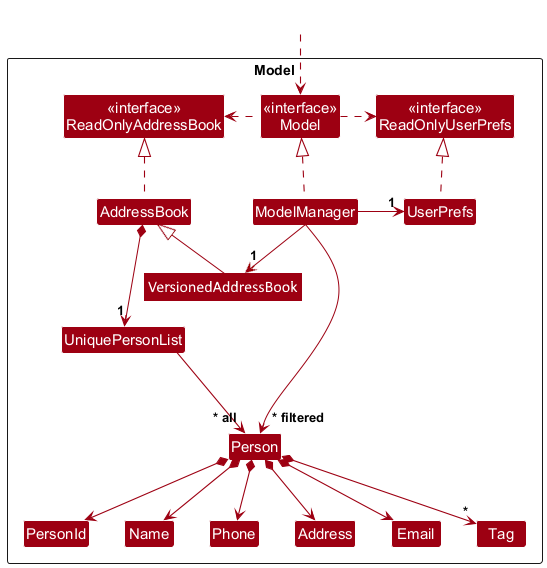
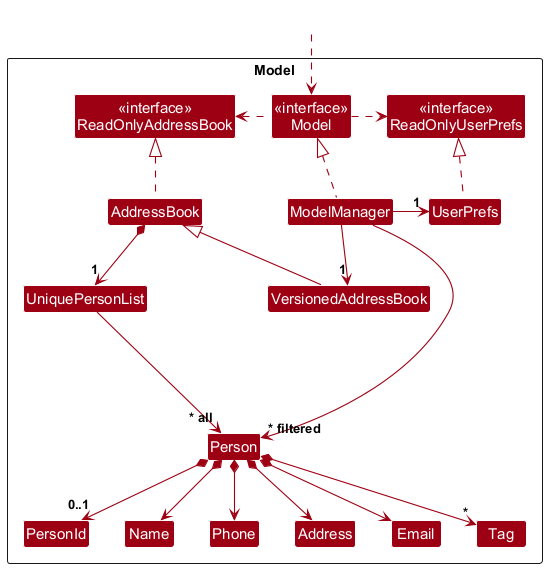
Docs: Update the DG diagrams to match the code

diff --git a/docs/DeveloperGuide.md b/docs/DeveloperGuide.md
@@ -81,7 +81,7 @@ The **API** of this component is specified in [`Ui.java`](https://github.com/AY2
 
 ![Structure of the UI Component](images/UiClassDiagram.png)
 
-The UI consists of a `MainWindow` and its parts, such as `CommandBox`, `ResultDisplay`, `PersonListPanel`, and `StatusBarFooter`. All of these, including `MainWindow`, inherit from the abstract `UiPart` class, which captures common behavior among classes that represent visible GUI parts.
+The UI consists of a `MainWindow` and its parts, such as `CommandBox`, `ResultDisplay`, `PersonListPanel`, and `StatusBarFooter`. All of these, including `MainWindow`, inherit from the abstract `UiPart` class, which captures common behavior among classes that represent visible GUI parts. `MainWindow` also holds the contact details panel and the Command Guide panel, both defined in `MainWindow.fxml`.
 
 The `UI` component uses the JavaFX UI framework. The layouts of these UI parts are defined in matching `.fxml` files in `src/main/resources/view`. For example, [`MainWindow.fxml`](https://github.com/AY2627S1-CS2103-F13-1/tp/tree/master/src/main/resources/view/MainWindow.fxml) specifies the layout of [`MainWindow`](https://github.com/AY2627S1-CS2103-F13-1/tp/tree/master/src/main/java/seedu/address/ui/MainWindow.java).
 
@@ -132,7 +132,7 @@ How the parsing works:
 
 The `Model` component,
 
-* stores the address book data i.e., all `Person` objects (which are contained in a `UniquePersonList` object).
+* stores the address book data i.e., all `Person` objects (which are contained in a `UniquePersonList` object), in a `VersionedAddressBook`: an `AddressBook` that also keeps the undo/redo history (see [Undo/redo feature](#undoredo-feature)).
 * considers two `Person` objects duplicates when they have the same phone number and their names match after letter
   case is ignored and each run of spaces is treated as one space. The name is otherwise stored exactly as entered.
 * gives every `Person` a `PersonId` when it is added, using a counter of the next ID to give out (see [Contact ID feature](#contact-id-feature)).
